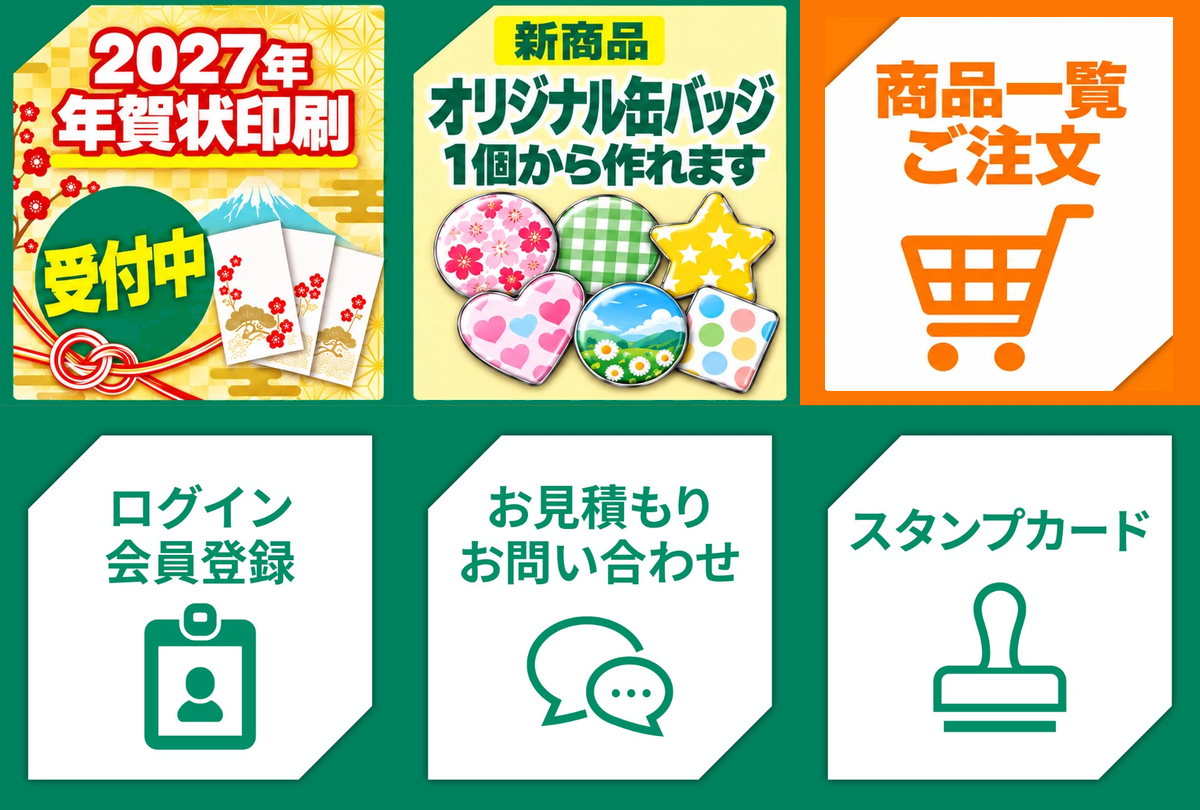
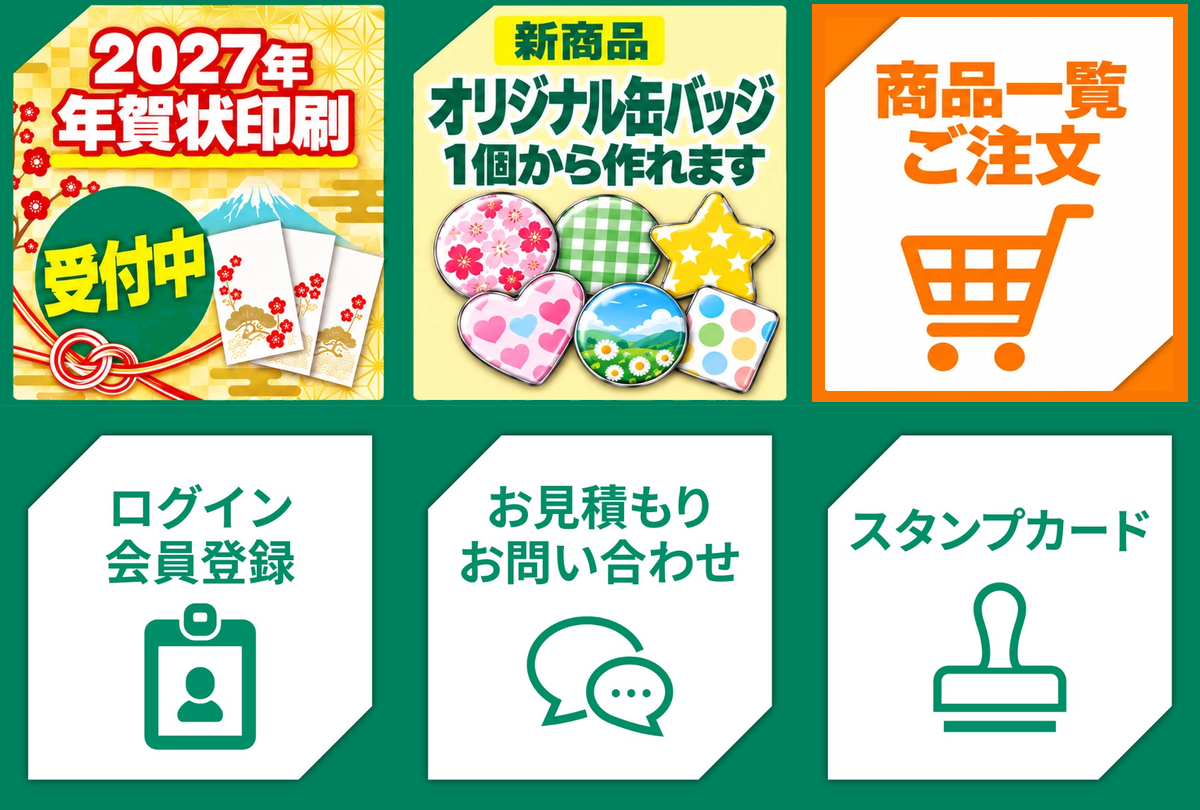
インクアート：11月リッチメニュー＝商品一覧の枠の外側を緑に戻し、缶バッジとの間を広く

Changed region(s): [[0.6475, 0.0, 1.0, 0.5247]]

diff --git a/_build/build_inkart_richmenu_202611.py b/_build/build_inkart_richmenu_202611.py
@@ -138,20 +138,23 @@ def rows_mode():
     out = Image.new("RGB", (W, H), green)
     out.paste(top, (0, 0))
     out.paste(bot, (0, CH))
-    # 上段右（商品一覧／ご注文）はマス全体をオレンジに（枠の外の緑もオレンジで塗る）
+    # 上段右（商品一覧／ご注文）：枠（オレンジの縁＋白）はそのまま、枠の中に残る緑・暗い縁だけオレンジに。
+    # 枠の外は緑のまま（殿村さん 10/22「缶バッジとの間の緑をもう少し広く」）
     a = np.array(out).astype(int)
     cell = a[0:CH, 2 * CW:W]
-    om = (abs(cell - np.array([240, 145, 45])).sum(-1) < 90)   # 枠の縁のオレンジを実測（中央値）
+    om = (abs(cell - np.array([240, 145, 45])).sum(-1) < 90)
     orange = np.median(cell[om], axis=0).astype(int)
-    gm = (abs(cell - np.array(green)).sum(-1) < 70)
-    cell[gm] = orange
-    # 白い枠の外側（上端・右端に残る暗い縁や角）は全部オレンジで塗りつぶす
-    wm = cell.min(-1) > 235
-    ys, xs = np.where(wm)
+    nong = (abs(cell - np.array(green)).sum(-1) >= 60)
+    ys, xs = np.where(nong)
     x0, y0, x1, y1 = xs.min(), ys.min(), xs.max(), ys.max()
-    outside = np.ones(cell.shape[:2], bool)
-    outside[y0:y1 + 1, x0:x1 + 1] = False
-    cell[outside] = orange
+    inside = np.zeros(cell.shape[:2], bool)
+    inside[y0:y1 + 1, x0:x1 + 1] = True
+    wm = cell.min(-1) > 235
+    wys, wxs = np.where(wm)
+    white_box = np.zeros(cell.shape[:2], bool)
+    white_box[wys.min():wys.max() + 1, wxs.min():wxs.max() + 1] = True
+    fix = inside & ~white_box                      # 枠の縁の帯（白い部分の外側）
+    cell[fix] = orange
     a[0:CH, 2 * CW:W] = cell
     out = Image.fromarray(a.astype("uint8"))
     out.save(OUT)
